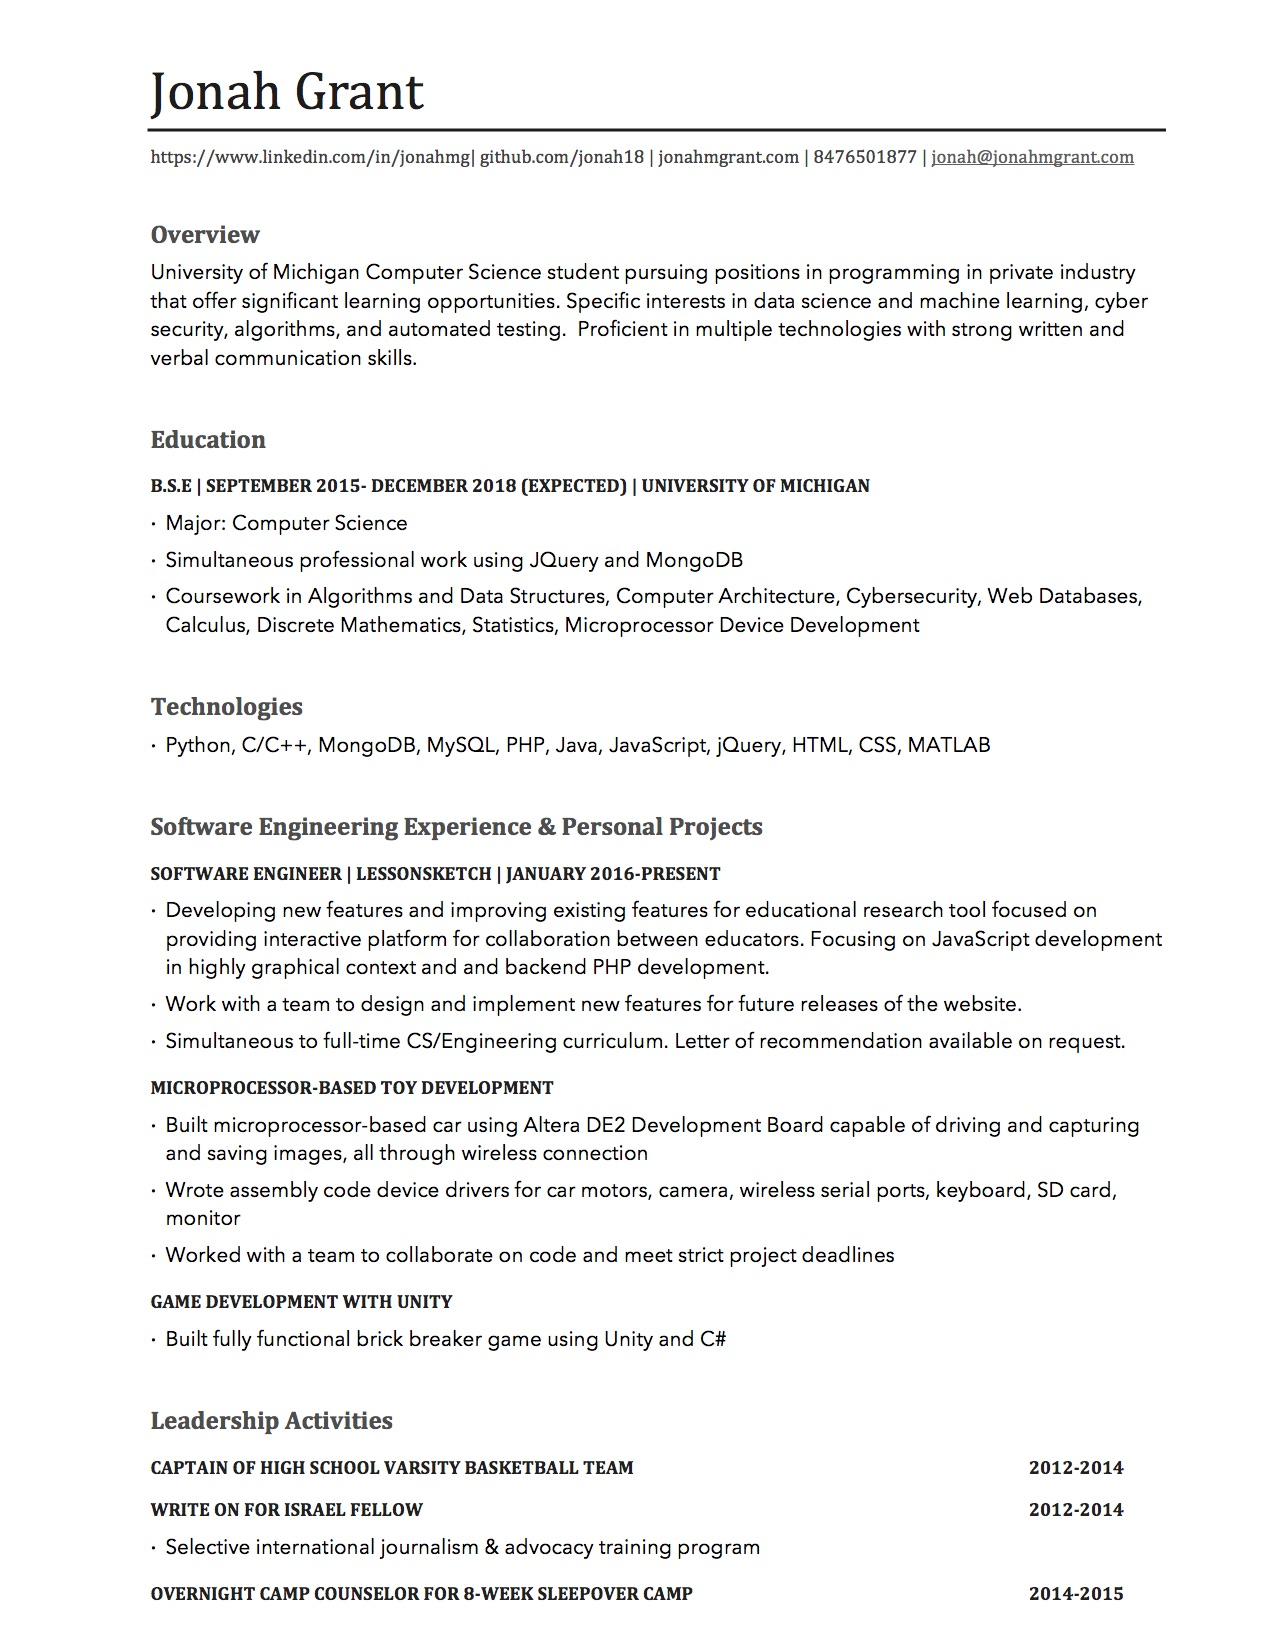
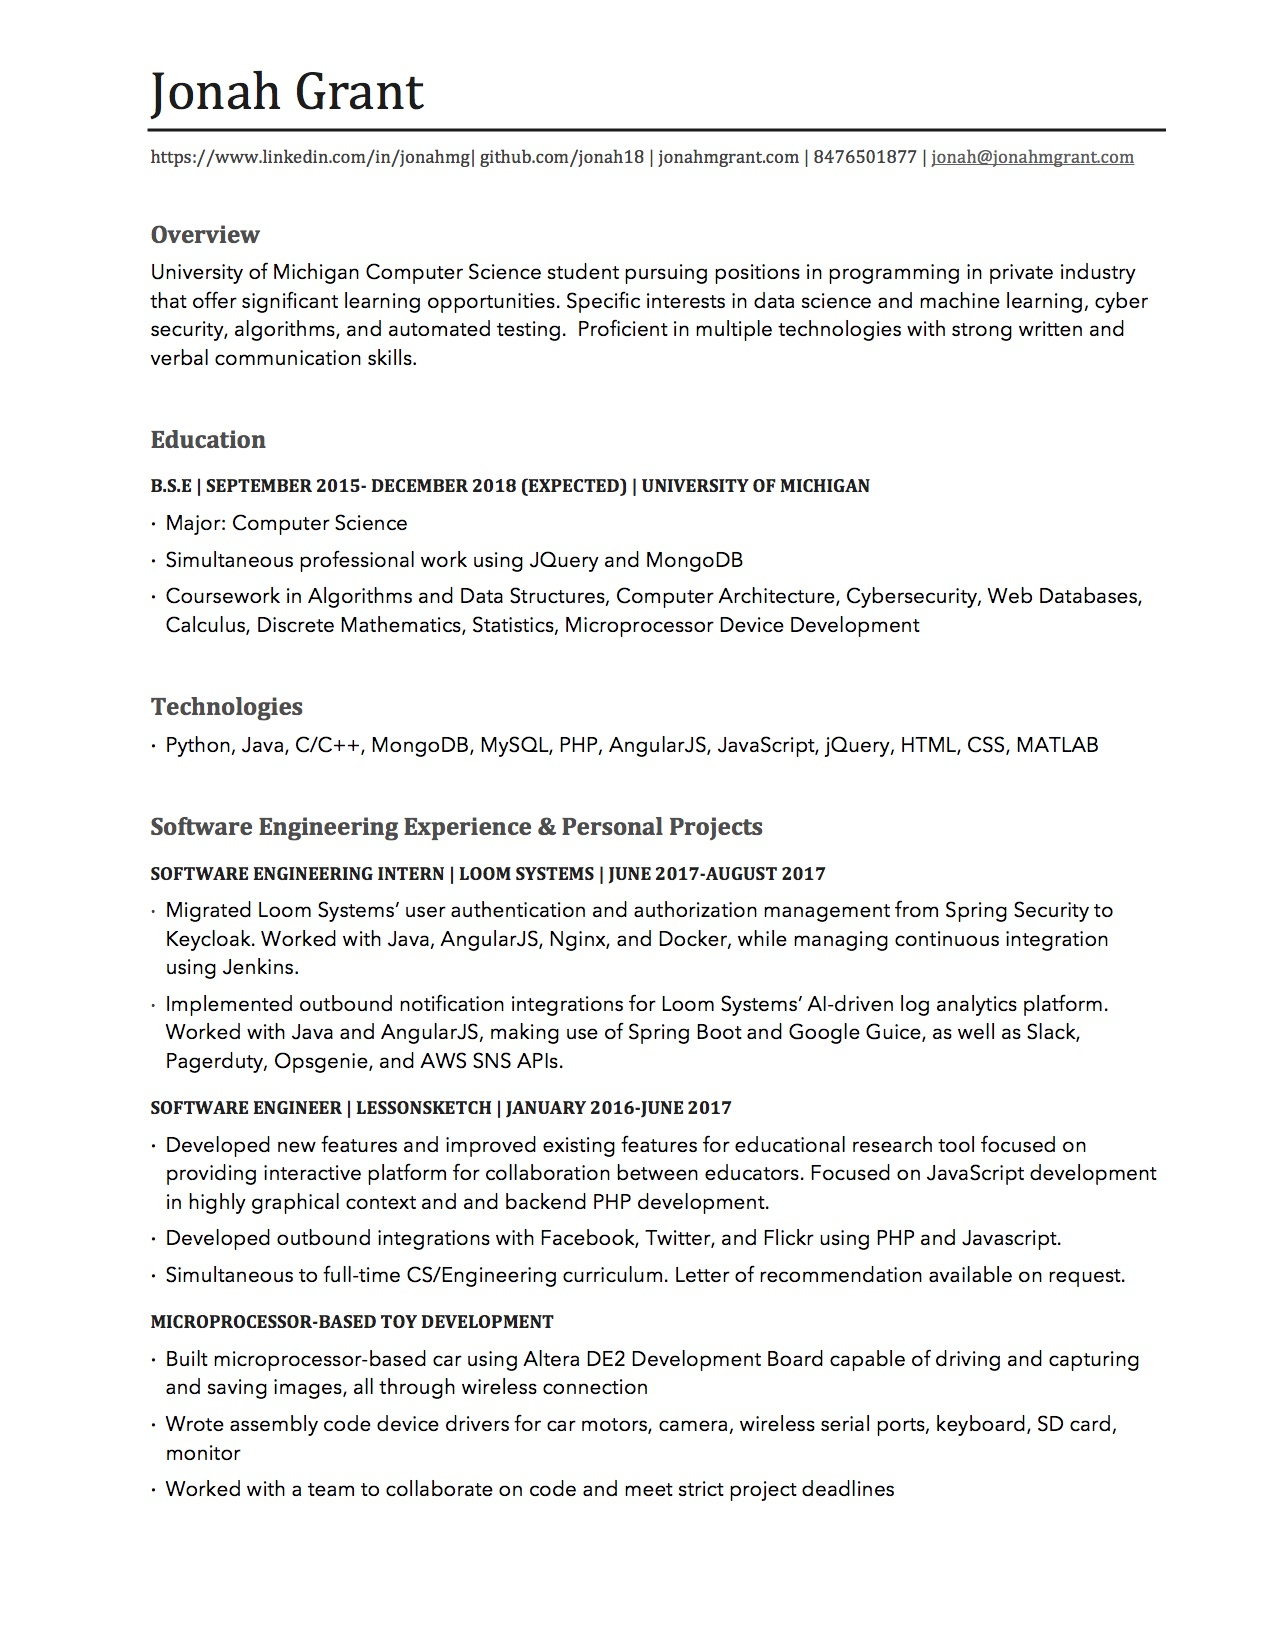
Updates

diff --git a/index.html b/index.html
@@ -79,8 +79,8 @@
 							<article id="work">
 								<h2 class="major">Work</h2>
                                 <p>
-                                    I'm fluent in Python, C++, Javascript, and PHP and I'm currently learning Swift and MongoDB.
-                                    I have extensive experience working with frameworks like jQuery and Python Flask and programming
+                                    I'm fluent in Python, Java, C++, and Javascript and I'm currently learning Swift and MongoDB.
+                                    I have extensive experience working with frameworks like Spring Boot and Python Flask and programming
                                     models like MapReduce to build data tools and robust, interactive websites.
                                     Check out my <a target="_blank" href="https://github.com/jonah18">Github</a> to see for yourself!
                                 </p>
@@ -91,15 +91,17 @@
                                     I worked for a year and a half as a full-stack Web Developer at
                                     <a target="_blank" href="https://www.lessonsketch.org/">Lessonsketch.org</a>, helping to design their homepage and
                                     math formula editor. I also integrated social network sharing into their apps using
-                                    the Twitter and Facebook API's.</p>
+                                    the Twitter and Facebook APIs.</p>
                                 <p>
                                     <a target="_blank" href="https://www.loomsystems.com">
                                         <img src="images/loom-logo.png" alt="Loom Systems logo" align="left" width="150px">
                                     </a>
-                                    This summer, I'll be interning as a software engineer at
-                                    <a target="_blank" href="https://www.loomsystems.com">Loom Systems</a> in Tel Aviv, Israel. Loom provides
-                                    a log analysis platform built on powerful AI.
-                                    Stay tuned for more updates!
+                                    This past summer, I interned as a software engineer at
+                                    <a target="_blank" href="https://www.loomsystems.com">Loom Systems</a> in Tel Aviv, Israel.
+                                    While at Loom, I migrated the security management of their AI-driven log analytics
+                                    platform from Spring Security to <a href="http://www.keycloak.org">Keycloak</a>.
+                                    I also developed notification integrations with services like Slack, PagerDuty, OpsGenie,
+                                    and AWS SNS.
                                 </p>
 							</article>
 
